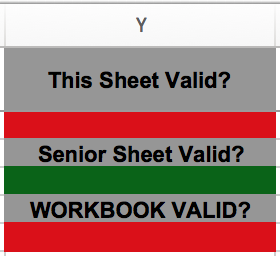
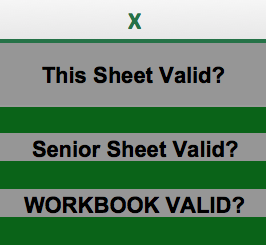
Organogram errors covered in depth.

diff --git a/organogram-data.md b/organogram-data.md
@@ -65,19 +65,38 @@ In the near future, the CSV data will be provided for download in dataset record
 
 ## Publication FAQ
 
-#### Can I publish data for past periods?
+#### Q: Can I publish data for past periods?
 
 Not at the moment. We should be able to though in the new system, so keep hold of the data for the moment.
 
-#### How do I fix an "invalid" spreadsheet?
+#### Q: How do I copy and paste my spreadsheet data onto a new template spreadsheet?
+
+Sometimes your spreadsheet full of data won't work or upload for some reason, and you want to copy the data to a new blank spreadsheet template. This is quick, especially if you follow these tips:
+
+* Copy the entire "reference" sheets across: "(reference) units", "(reference) generic-job-titles", "(reference) junior-grades". If you don't then you'll find the other sheets won't validate.
+
+* You don't need to copy the "working" sheets if you don't want to - the system doesn't need them.
+
+* Copying the "final data" sheets needs to be done in parts because you can't paste into the locked cells, which are the header (first) row and the greyed-out columns. To be specific, here are the ranges to copy and paste:
+
+  Sheet                      | Copy     | Paste in the new workbook at
+  ---------------------------|----------|-----------------------------
+  (final data) senior-staff  | A2:N2000 | A2
+  (final data) senior-staff  | P2:R2000 | P2
+  (final data) junior-staff  | A2:E6000 | A2
+  (final data) junior-staff  | H2:J6000 | H2
+
+#### Q: How do I fix an "invalid" spreadsheet?
 
 ![invalid spreadsheet error message during upload](images/organogram_upload_invalid.png)
 
 "The spreadsheet is invalid. Please check your data and try again."
 
-If you upload your Excel file and get this error then it means that there is a problem with one or more lines of the spreadsheet.
+(not to be confused with the error below about an "older spreadsheet template")
 
-To work out exactly where the problem is, open the file in Excel and look on the "(final data)-junior staff" sheet. Scroll to the right-hand edge and there will be three coloured indicators.
+If you upload your Excel file and get this error then it means that there is a problem with one or more data rows in the spreadsheet.
+
+To work out exactly where the problem is, open the file in Excel and look on the "(final data)-junior staff" sheet. Scroll to column X and there will be three coloured indicators:
 
 ![spreadsheet validity indicator - workbook](images/organogram_spreadsheet_workbook_invalid.png)
 
@@ -89,12 +108,43 @@ For each sheet which has the problem, check the end of each row, where the colum
 
 ![spreadsheet validity indicator - row](images/organogram_spreadsheet_invalid.png)
 
-Some versions of the spreadsheet help you further by highlighting red the cell with the problem. And some versions have an extra column called "Invalid cell (Excel 2011+)" which tells you the column with the problem, but it only works in Excel 2011 and later.
+More recent versions of the spreadsheet help you further by highlighting red the cell with the problem. A few versions of the spreadsheet have an extra column called "Invalid cell (Excel 2011+)" which tells you the column with the problem, although this feature is problematic - if you have this column, please see information below about an "older spreadsheet template" before continuing.
 
 Once all problems are resolved and the 'WORKBOOK VALID?' indicator has gone green and you still get an error when you try to upload it, then [contact us](http://data.gov.uk/contact), supplying the file in question.
 
+#### Q: How do I fix an "older spreadsheet template"
 
-#### Why hasn't our organogram appeared?
+![invalid spreadsheet / "older spreadsheet template" error message during upload](images/organogram_upload_invalid_older.png)
+
+"The spreadsheet is invalid - You may be using an older version of the spreadsheet template. Please check your data and try again."
+
+(Not to be confused with the error in the previous section of this document that does not mention the "older spreadsheet template")
+
+It means that the spreadsheet structure is not correct.
+
+Follow these steps to find and solve the fault:
+
+* If the '(final data) junior-staff' sheet has "Invalid cell (Excel 2011+)" in cell L1 then this is causing problems. This is the case for spreadsheet templates issued 5/5/16 - 10/5/16. [Contact us](http://data.gov.uk/contact) to get this column removed, or to get the latest template, into which you can [copy and paste your data in](#q-how-do-i-copy-and-paste-my-spreadsheet-data-onto-a-new-template-spreadsheet).
+* If your spreadsheet template was from approximately 2010 then it is too old. [Contact us](http://data.gov.uk/contact) to get the latest template and [copy and paste your data into it](#q-how-do-i-copy-and-paste-my-spreadsheet-data-onto-a-new-template-spreadsheet).
+* Check that the key sheets are still called "(final data) senior-staff" and "(final data) junior-staff". Check that on sheet "(final data) junior-staff" there is still the validation block is still in column X in rows 1 to 6. If you can't fix any problems, [contact us](http://data.gov.uk/contact) to get the latest template and [copy and paste your data into it](#q-how-do-i-copy-and-paste-my-spreadsheet-data-onto-a-new-template-spreadsheet).
+
+![spreadsheet validity indicator - workbook](images/organogram_spreadsheet_workbook_invalid.png)
+
+If you still get the error on upload, you could try getting a fresh template and copy and paste the data across to it.
+
+#### Q: How do I fix error: "Could not find junior sheet"
+
+!["Could not find junior sheet" error message during upload](images/organogram_upload_invalid_finding_sheet.png)
+
+"Could not find junior sheet. Please check your data and try again."
+
+Follow these steps to find and solve the fault:
+
+* Check that the spreadsheet opens alright in Excel.
+* Check that the spreadsheet is not password protected. (It would prompt for the password when you open it in Excel.)
+* Check that the key sheets are still called "(final data) senior-staff" and "(final data) junior-staff". Check that on sheet "(final data) junior-staff" there is still the validation block is still in column X in rows 1 to 6. If you can't fix any problems, [contact us](http://data.gov.uk/contact) to get the latest template and [copy and paste your data into it](#q-how-do-i-copy-and-paste-my-spreadsheet-data-onto-a-new-template-spreadsheet).
+
+#### Q: Why hasn't our organogram appeared?
 
 Here is a check-list for when you've uploaded organogram data and don't see it appear at <http://data.gov.uk/organogram/>.
 
